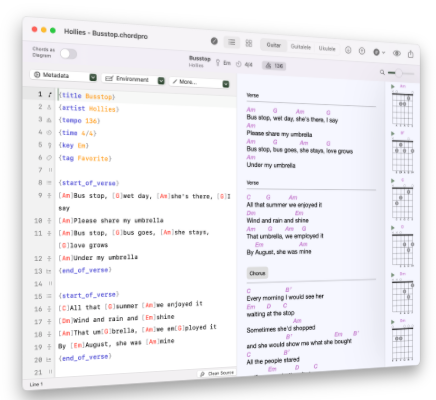
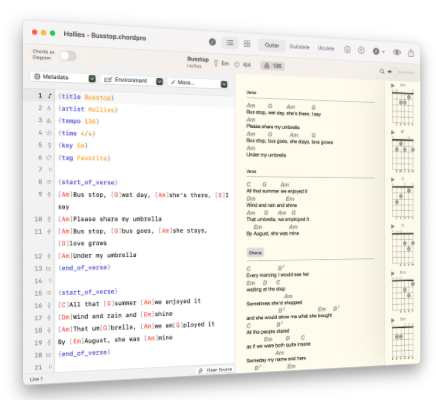
6.3.1 release

diff --git a/Chord Provider/QuickLook/QLpreview/PreviewProvider.swift b/Chord Provider/QuickLook/QLpreview/PreviewProvider.swift
@@ -29,7 +29,9 @@ class PreviewProvider: QLPreviewProvider, QLPreviewingController {
 
         let contentType = UTType.pdf
         let fileContents = try String(contentsOf: request.fileURL, encoding: .utf8)
-        let song = await ChordProParser.parse(song: Song(id: UUID(), content: fileContents))
+        var song = await ChordProParser.parse(song: Song(id: UUID(), content: fileContents))
+        /// Pass the application settings to the song
+        song.settings = settings
         let songData = try await SongExport.export(
             song: song
         ).pdf

diff --git a/CHANGELOG.md b/CHANGELOG.md
@@ -32,4 +32,8 @@
 - Add font templates to the settings
 - Make PDF chord diagrams resizable
 
+# 6.3.1 (2025-05-02)
+
+- Fix colours in quickview
+
 # 6.x.x (---)
